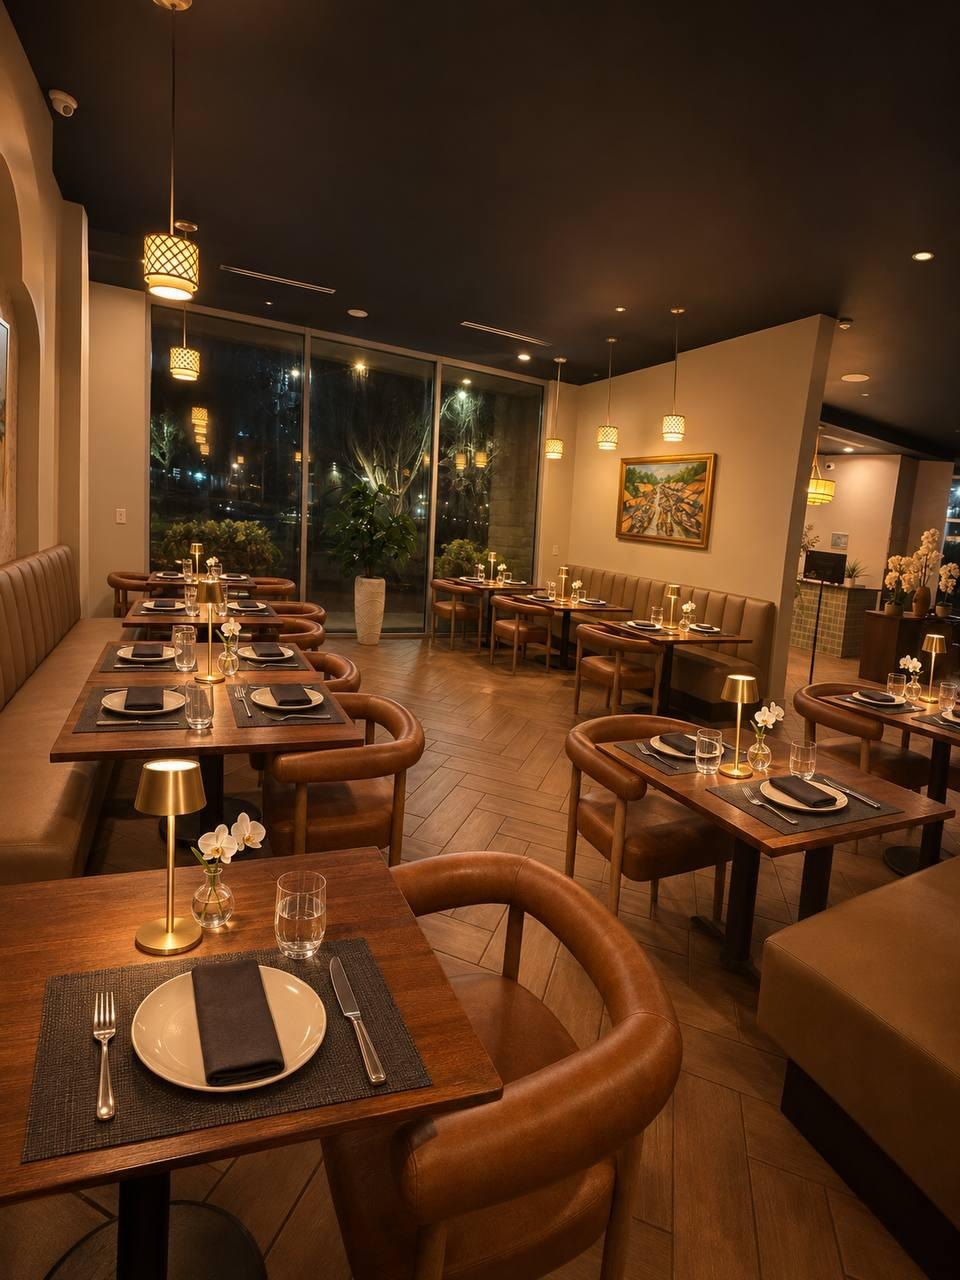
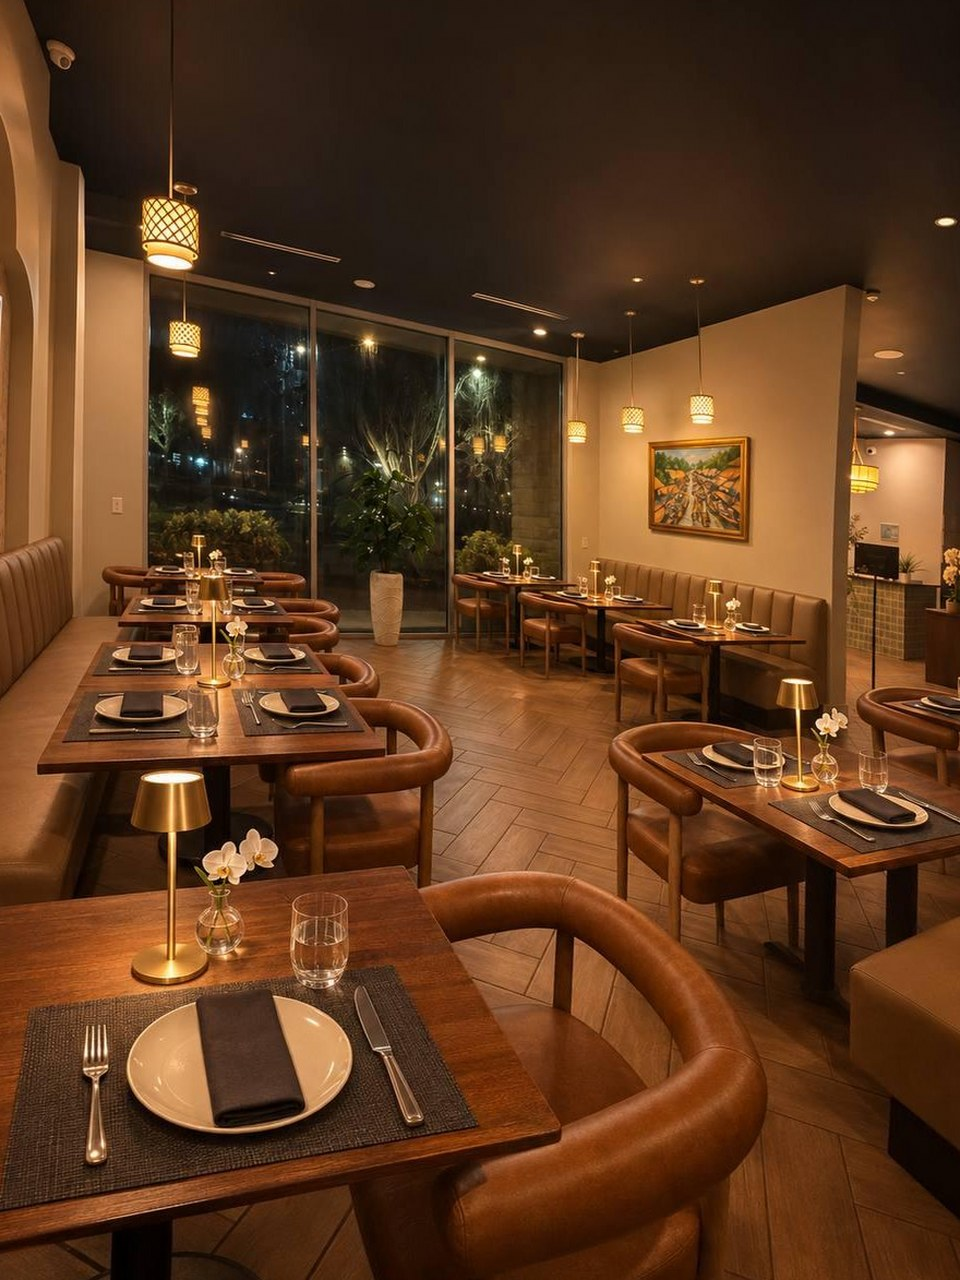
Gallery opens photos large; straighter, brighter Bar photo; window photo straightened

diff --git a/table.html b/table.html
@@ -52,6 +52,29 @@
 }
 @keyframes room-in { from { opacity: 0; transform: translateY(28px); } }
 html[data-motion="on"] .room__grid figure { animation: room-in 1.2s var(--ease) both; animation-timeline: view(); animation-range: entry 0% entry 40%; }
+/* click a room photo: it opens large */
+.room__grid figure { cursor: zoom-in; }
+.room__grid figure:focus-visible { outline: 2px solid var(--ghee); outline-offset: 3px; }
+.lb { position: fixed; inset: 0; width: 100%; height: 100%; max-width: none; max-height: none; margin: 0; padding: 0; border: 0; background: transparent; color: var(--cream); overflow: hidden; }
+.lb::backdrop { background: rgba(5, 4, 3, .94); }
+.lb__stage { position: absolute; inset: 0; display: grid; place-items: center; padding: 64px 72px 72px; }
+.lb__img { max-width: calc(100vw - 144px); max-height: calc(100vh - 136px); max-height: calc(100dvh - 136px); width: auto; height: auto; object-fit: contain; border-radius: 4px; box-shadow: 0 30px 80px rgba(0, 0, 0, .6); }
+.lb__cap { position: absolute; left: 0; right: 0; bottom: 24px; text-align: center; font: 600 11px/1 var(--ui); letter-spacing: .22em; text-transform: uppercase; color: var(--cream-2); }
+.lb__cap b { color: var(--ghee); font-weight: 600; margin-right: 14px; }
+.lb button { position: absolute; display: grid; place-items: center; width: 48px; height: 48px; border-radius: 999px; border: 1px solid var(--line-2); background: rgba(5, 4, 3, .6); color: var(--cream); cursor: pointer; transition: border-color .2s, color .2s; }
+.lb button:hover { border-color: var(--ghee); color: var(--ghee); }
+.lb button svg { width: 18px; height: 18px; fill: none; stroke: currentColor; stroke-width: 1.6; stroke-linecap: round; stroke-linejoin: round; }
+.lb__close { top: 14px; right: 14px; }
+.lb__prev { left: 14px; top: 50%; translate: 0 -50%; }
+.lb__next { right: 14px; top: 50%; translate: 0 -50%; }
+@media (max-width: 759px) {
+  .lb__stage { padding: 64px 12px 64px; }
+  .lb__img { max-width: calc(100vw - 24px); }
+  .lb__prev, .lb__next { top: auto; bottom: 12px; translate: none; }
+  .lb__cap { bottom: 30px; }
+}
+html[data-motion="on"] .lb[open] .lb__img { animation: lb-in .45s var(--ease) both; }
+@keyframes lb-in { from { opacity: 0; transform: scale(.97); } }
 </style>
 </head>
 <body data-atmos="table">
@@ -137,6 +160,57 @@ html[data-motion="on"] .room__grid figure { animation: room-in 1.2s var(--ease) 
     <section class="tcard" aria-labelledby="h-know"><h2 id="h-know">Good to <em>know.</em></h2><p>No dress code, kids and families always welcome, vegetarian dishes on both menus, spice adjusted to taste, and tell your server about any allergies.</p></section>
   </div>
 </main>
+<dialog class="lb" aria-label="Photo" data-lb>
+  <div class="lb__stage"><img class="lb__img" alt=""></div>
+  <p class="lb__cap"><b data-lb-count></b><span data-lb-cap></span></p>
+  <button class="lb__prev" type="button" aria-label="Previous photo" data-lb-step="-1"><svg viewBox="0 0 24 24" aria-hidden="true"><path d="m15 5-7 7 7 7"/></svg></button>
+  <button class="lb__next" type="button" aria-label="Next photo" data-lb-step="1"><svg viewBox="0 0 24 24" aria-hidden="true"><path d="m9 5 7 7-7 7"/></svg></button>
+  <button class="lb__close" type="button" aria-label="Close photo" data-lb-close><svg viewBox="0 0 24 24" aria-hidden="true"><path d="M6 6l12 12M18 6 6 18"/></svg></button>
+</dialog>
+<script>
+(function () {
+  var figs = [].slice.call(document.querySelectorAll('.room__grid figure'));
+  var dlg = document.querySelector('[data-lb]');
+  if (!figs.length || !dlg || typeof dlg.showModal !== 'function') return;
+  var img = dlg.querySelector('.lb__img'), cap = dlg.querySelector('[data-lb-cap]'), count = dlg.querySelector('[data-lb-count]');
+  var i = 0, opener = null, x0 = null;
+  function show(n) {
+    i = (n + figs.length) % figs.length;
+    var src = figs[i].querySelector('img');
+    img.src = src.currentSrc || src.src;
+    img.alt = src.alt;
+    cap.textContent = figs[i].querySelector('figcaption').textContent;
+    count.textContent = (i + 1) + ' / ' + figs.length;
+    img.style.animation = 'none'; void img.offsetWidth; img.style.animation = '';
+  }
+  function close() { dlg.close(); document.body.classList.remove('is-locked'); if (opener) opener.focus({ preventScroll: true }); }
+  figs.forEach(function (f, n) {
+    f.tabIndex = 0;
+    f.setAttribute('role', 'button');
+    f.setAttribute('aria-label', 'Open photo: ' + f.querySelector('figcaption').textContent.toLowerCase());
+    function open() { opener = f; show(n); dlg.showModal(); document.body.classList.add('is-locked'); }
+    f.addEventListener('click', open);
+    f.addEventListener('keydown', function (e) { if (e.key === 'Enter' || e.key === ' ') { e.preventDefault(); open(); } });
+  });
+  dlg.querySelectorAll('[data-lb-step]').forEach(function (b) { b.addEventListener('click', function () { show(i + Number(b.dataset.lbStep)); }); });
+  dlg.querySelector('[data-lb-close]').addEventListener('click', close);
+  dlg.addEventListener('cancel', function (e) { e.preventDefault(); close(); });
+  dlg.addEventListener('keydown', function (e) {
+    if (e.key === 'ArrowRight') { e.preventDefault(); show(i + 1); }
+    else if (e.key === 'ArrowLeft') { e.preventDefault(); show(i - 1); }
+  });
+  // a tap on the dark area (not the photo or a button) closes it
+  dlg.addEventListener('click', function (e) { if (e.target === dlg || e.target.classList.contains('lb__stage')) close(); });
+  // swipe left or right on a phone to change photo
+  dlg.addEventListener('touchstart', function (e) { x0 = e.touches[0].clientX; }, { passive: true });
+  dlg.addEventListener('touchend', function (e) {
+    if (x0 === null) return;
+    var dx = e.changedTouches[0].clientX - x0; x0 = null;
+    if (Math.abs(dx) > 50) show(i + (dx < 0 ? 1 : -1));
+  });
+})();
+</script>
+
 <footer class="foot">
   <div class="foot__in">
     <div>

diff --git a/drinks.html b/drinks.html
@@ -27,6 +27,12 @@
 <script type="module" src="js/site.js"></script>
 <link rel="stylesheet" href="css/menu-card.css?v=5">
 <script type="module" src="js/menu.js?v=5"></script>
+<style>
+/* the bar photo is already a night shot: lighter shading so the room shows */
+.mc-hero::after { background: linear-gradient(180deg, rgba(5, 4, 3, .62) 0%, rgba(5, 4, 3, .12) 34%, rgba(5, 4, 3, .22) 68%, var(--bg) 100%); }
+.mc-hero__over { display: inline-block; padding: 8px 6px 8px 16px; border-radius: 999px; background: rgba(5, 4, 3, .55); text-shadow: 0 1px 3px rgba(0, 0, 0, .9); }
+.mc-hero h1 { text-shadow: 0 4px 30px rgba(0, 0, 0, .75); }
+</style>
 </head>
 <body data-atmos="table">
 <div class="haze" aria-hidden="true"></div>
@@ -54,7 +60,7 @@
 </header>
 <main id="main" class="mc">
   <header class="mc-hero">
-    <img src="assets/photo/bar-night-960.jpg" width="960" height="1280" style="object-position:50% 47%" alt="The round Karva bar at night, warm light under the counter, tan leather stools and small gold lamps on the bar top." fetchpriority="high">
+    <img src="assets/photo/bar-night-v2-960.jpg" width="960" height="1280" style="object-position:50% 47%" alt="The round Karva bar at night, warm light under the counter, tan leather stools and small gold lamps on the bar top." fetchpriority="high">
     <div class="mc-hero__in">
       <p class="mc-hero__over">Karva · Little Elm, Texas</p>
       <h1>The <em>Bar</em></h1>
